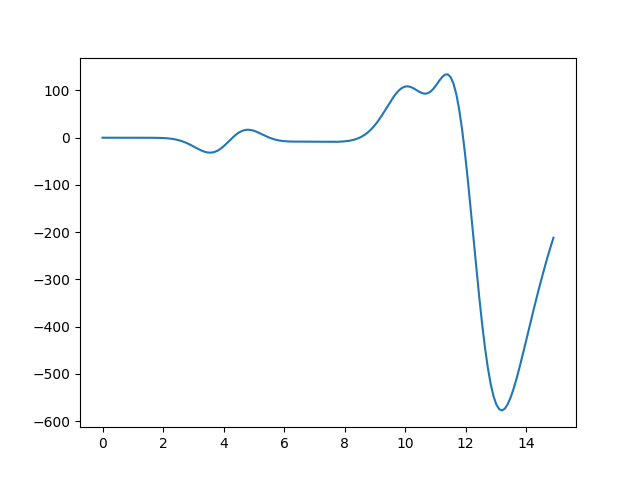
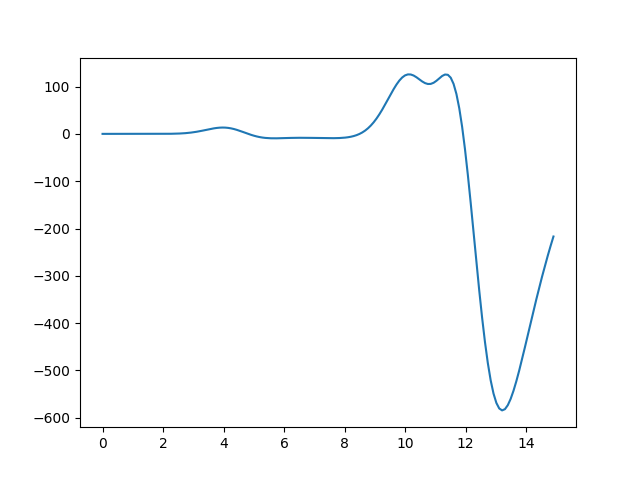
Calculo de campos electricos optimizado

diff --git a/fdtd/2d/src/fdtd/solver.py b/fdtd/2d/src/fdtd/solver.py
@@ -288,28 +288,29 @@ class Solver:
                 values[:,:] = \
                     self.old.hz[ idx[L][X]:idx[U][X], idx[L][Y]:idx[U][Y] ]
                 
-                """
+                
                 # Electric field at magnetic field positions
+                
                 # Ex values without first raw    
                 valuesexup = \
-                    self.old.ex[ idx[L][X]:idx[U][X], (idx[L][Y]+1):(idx[U][Y]+1) ]
+                    np.array(self.old.ex[ idx[L][X]:idx[U][X], (idx[L][Y]+1):(idx[U][Y]+1) ])
                 # Ex values without last raw
                 valuesexdown = \
-                    self.old.ex[ idx[L][X]:idx[U][X], idx[L][Y]:idx[U][Y] ]
+                    np.array(self.old.ex[ idx[L][X]:idx[U][X], idx[L][Y]:idx[U][Y] ])
                 
 
                 # Mean values, Ex same position as Hz
-                valuesex = np.array([list(map(lambda x, y: (x+y)/2,\
-                self.old.ex[ idx[L][X]:idx[U][X], (idx[L][Y]+1):(idx[U][Y]+1) ][i],\
-                self.old.ex[ idx[L][X]:idx[U][X], idx[L][Y]:idx[U][Y] ][i]))\
-                for i in range(0,self.old.ex.shape[0])])
+                valuesex = (valuesexup + valuesexdown)/2
+                
+
                 """
                 valuesex = np.zeros((idx[U][X]- idx[L][X], idx[U][Y]+1 - idx[L][Y] ))
                 valuesex[:,:] = self.old.ex[ idx[L][X]:idx[U][X], idx[L][Y]:(idx[U][Y]+1) ]
-
-
                 """
+
+                
                 # Electric field at magnetic field positions
+                
                 # Ey values without first column
                 valueseyright = \
                     self.old.ey[ (idx[L][X]+1):(idx[U][X]+1), idx[L][Y]:idx[U][Y] ]
@@ -319,14 +320,12 @@ class Solver:
                 
 
                 # Mean values, Ey same position as Hz
-                valuesey = np.array([list(map(lambda x, y: (x+y)/2,\
-                self.old.ey[ (idx[L][X]+1):(idx[U][X]+1), idx[L][Y]:idx[U][Y] ][i],\
-                self.old.ey[ idx[L][X]:idx[U][X], idx[L][Y]:idx[U][Y] ][i]))\
-                for i in range(0,self.old.ey.shape[0]-1)])
+                valuesey = (valueseyright + valueseyleft)/2
+
                 """
                 valuesey = np.zeros((idx[U][X]+1- idx[L][X], idx[U][Y] - idx[L][Y] ))
                 valuesey[:,:] = self.old.ey[ idx[L][X]:(idx[U][X]+1), idx[L][Y]:idx[U][Y] ]
-
+                """
 
                 p["values"].append(values)
                 p["valuese_mod"].append(np.array([list(map(lambda x,y: np.sqrt(x**2 +y**2), valuesex[i], valuesey[i])) for i in range(0,len(valuesex))]))
